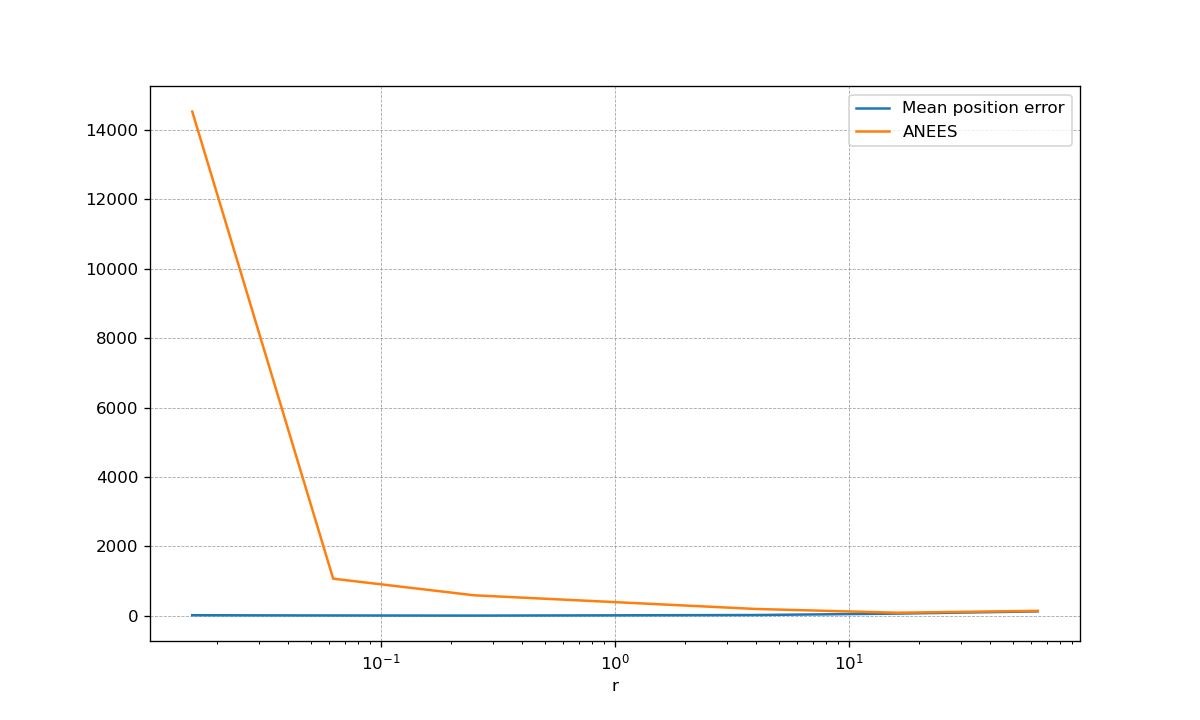
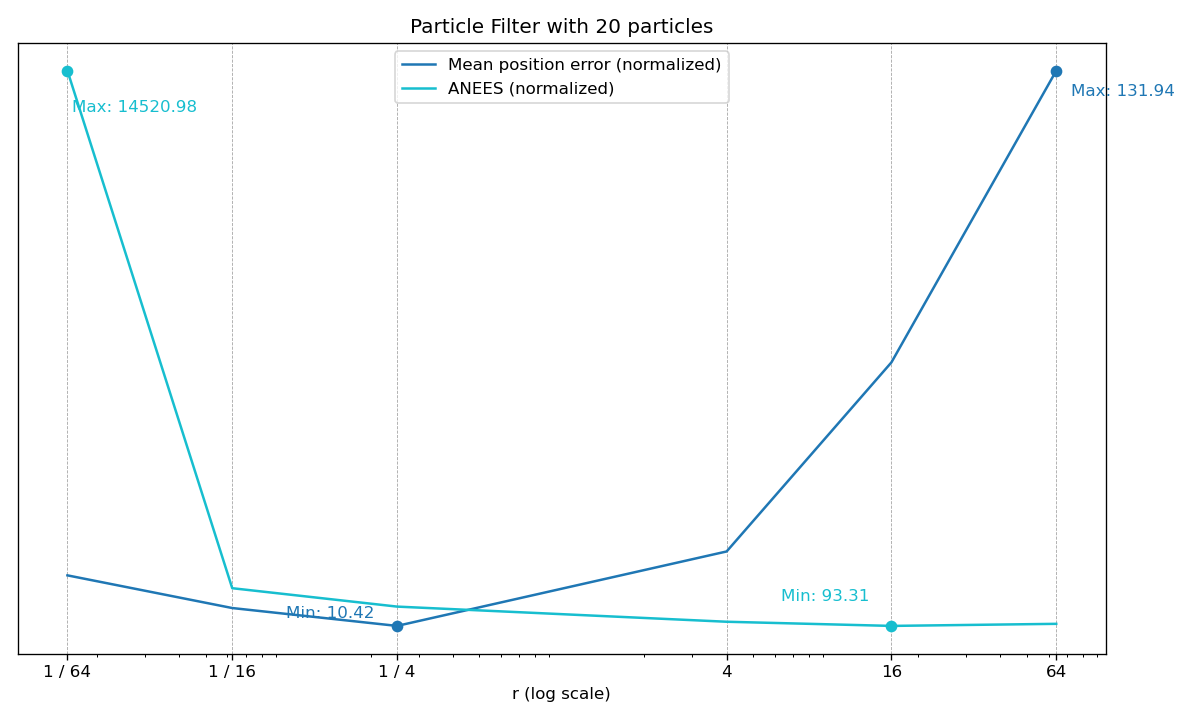
preciosos gráficos normalizados

diff --git a/tp4/tests.py b/tp4/tests.py
@@ -2,7 +2,15 @@ import os
 import matplotlib.pyplot as plt
 import numpy as np
 
-r = [1/64, 1/16, 1/4, 4, 16, 64]
+
+R = [1/64, 1/16, 1/4, 4, 16, 64]
+
+
+COLORS = ["red", "blue", "green", "orange", "purple", "brown"]
+
+
+PARTICLES = [20, 50, 500]
+
 
 def test_ekf():
     print("Running EKF tests")
@@ -10,12 +18,13 @@ def test_ekf():
     with open("ekf.txt", "w") as f:
         f.write("")
 
-    for i in r:
+    for i in R:
         print(f"Running 10 runs for r = {i}")
         for _ in range(10):
             command = f"python localization.py ekf --data-factor {i} --filter-factor {i} >> ekf.txt"
             print("$", command)
             os.system(f"python localization.py ekf --data-factor {i} --filter-factor {i} >> ekf.txt")
+
 
 def test_pf():
     print("Running PF tests")
@@ -23,28 +32,28 @@ def test_pf():
     with open("pf.txt", "w") as f:
         f.write("")
 
-    for i in r:
+    for i in R:
         print(f"Running 10 runs for r = {i}")
         for _ in range(10):
             command = f"python localization.py pf --data-factor {i} --filter-factor {i} >> pf.txt"
             print("$", command)
             os.system(f"python localization.py pf --data-factor {i} --filter-factor {i} >> pf.txt")
 
+
 def test_pf_extensive():
     print("Running PF extensive tests")
 
-    particles = [20, 50, 500]
-
-    for n in particles:
+    for n in PARTICLES:
         with open(f"pfext{n}.txt", "w") as f:
             f.write("")
 
-        for i in r:
+        for i in R:
             print(f"Running 10 runs for r = {i} and n = {n}")
             for _ in range(10):
                 command = f"python localization.py pf --data-factor {i} --filter-factor {i} --num-particles {n} >> pfext{n}.txt"
                 print("$", command)
                 os.system(f"python localization.py pf --data-factor {i} --filter-factor {i} --num-particles {n} >> pfext{n}.txt")
+
 
 """
 Example output of one run:
@@ -66,6 +75,7 @@ class Run:
     def __repr__(self):
         return f"Run(data_factor={self.data_factor}, filter_factor={self.filter_factor}, mean_error={self.mean_error}, mean_mahalanobis={self.mean_mahalanobis}, anees={self.anees})"
 
+
 def parse_run(lines: list[str]):
 
     if (len(lines) < 6):
@@ -78,14 +88,46 @@ def parse_run(lines: list[str]):
     anees = float(lines[5].split(":")[-1].strip())
     return Run(data_factor, filter_factor, mean_error, mean_mahalanobis, anees), lines[6:]
 
-"""
-Graficar el error de posición medio a medida que los factores α, β varían sobre r y discuta los
-resultados.
 
-Graficar el error de posición medio y ANEES a medida que los factores α, β del filtro varían sobre
-r mientras los datos son generados con los valores por defecto.
-"""
-def plot(runs: list[Run], prefix: str = "", log=False):
+def style_normalized(x, ys, names):
+    normalized = [(y - np.min(y)) / (np.max(y) - np.min(y)) for y in ys]
+
+    for i, (y, n, p, c) in enumerate(zip(ys, normalized, names, COLORS)):
+        plt.plot(x, n, label=p, color=c)
+
+        plt.xticks(x, map(lambda x: f"1 / {int(1 / x)}" if 0 < x < 1 else "0" if x == 0 else str(int(x)), x))
+
+        min_index = np.argmin(n)
+        max_index = np.argmax(n)
+
+        plt.scatter(x[min_index], 0, color=c, zorder=5)  # Min point
+        plt.scatter(x[max_index], 1, color=c, zorder=5)  # Max point
+
+        plt.annotate(
+            f"Min: {y[min_index]:.2f}",
+            (x[min_index], 0),
+            textcoords="offset points",
+            xytext=(-40, 5 + i * 10),
+            ha='center',
+            color=c
+        )
+
+        plt.annotate(
+            f"Max: {y[max_index]:.2f}",
+            (x[max_index], 1),
+            textcoords="offset points",
+            xytext=(40, -15 - i * 10),
+            ha='center',
+            color=c
+        )
+
+    plt.gca().axes.yaxis.set_visible(False)
+    plt.grid(color='gray', linestyle='--', linewidth=0.5, alpha=0.7)
+    plt.tight_layout()
+    plt.legend()
+
+
+def plot_data_from_runs(runs: list[Run]) -> tuple[list[float], list[float], list[float]]:
     x = sorted(set(run.data_factor for run in runs))
     y = []; y2 = []
     for r in x:
@@ -101,83 +143,37 @@ def plot(runs: list[Run], prefix: str = "", log=False):
 
         y2.append(avg_anees)
 
+    return x, y, y2
+
+
+"""
+Graficar el error de posición medio a medida que los factores α, β varían sobre r y discuta los
+resultados.
+
+Graficar el error de posición medio y ANEES a medida que los factores α, β del filtro varían sobre
+r mientras los datos son generados con los valores por defecto.
+"""
+def plot(runs: list[Run], prefix: str = "", log=False, title=None):
+    x, y, y2 = plot_data_from_runs(runs)
+
     plt.figure(figsize=(10, 6), dpi=120)
-    plt.grid(color='gray', linestyle='--', linewidth=0.5, alpha=0.7)
-
-    if log:
-        plt.xscale("log")
-    else:
-        plt.xscale("linear")
-
-    normalized = [i / (max(y) - min(y)) for i in y]
-
-    fig, ax1 = plt.subplots()
-    ax1.plot(x, y)
-    ax2 = ax1.twinx()
-    ax2.plot(x, normalized, color="red")
-
-    plt.plot(x, y)
-    plt.xlabel("r")
-    plt.ylabel("Mean position error")
+    plt.title(title)
+    plt.xscale("log" if log else "linear")
+    plt.xlabel("r" + (" (log scale)" if log else ""))
+    style_normalized(x, [y], ["Mean position error (normalized)"])
     plt.savefig(prefix + "mean_position_error.png")
     plt.show()
 
     plt.figure(figsize=(10, 6), dpi=120)
-    plt.grid(color='gray', linestyle='--', linewidth=0.5, alpha=0.7)
-
-    if log:
-        plt.xscale("log")
-    else:
-        plt.xscale("linear")
-
-    plt.plot(x, y, label="Mean position error")
-    plt.plot(x, y2, label="ANEES")
-    plt.xlabel("r")
-    plt.legend()
+    plt.title(title)
+    plt.xscale("log" if log else "linear")
+    plt.xlabel("r" + (" (log scale)" if log else ""))
+    style_normalized(x, [y, y2], ["Mean position error (normalized)", "ANEES (normalized)"])
     plt.savefig(prefix + "mean_position_error_and_anees.png")
     plt.show()
 
-def plot_normalized(x, ys):
-    normalized = [(y - np.min(y)) / (np.max(y) - np.min(y)) for y in ys]
 
-    colors = plt.cm.tab10(np.linspace(0, 1, len(ys)))
-
-    plt.figure(figsize=(10, 6))
-    for i, n in enumerate(normalized):
-        color = colors[i]
-
-        plt.plot(x, n, label=f'Line {i + 1}', color=color)
-
-        min_index = np.argmin(n)
-        max_index = np.argmax(n)
-
-        plt.scatter(x[min_index], 0, color=color, zorder=5)  # Min point
-        plt.scatter(x[max_index], 1, color=color, zorder=5)  # Max point
-
-        plt.annotate(
-            f"Min: {ys[i][min_index]:.2f}",
-            (x[min_index], 0),
-            textcoords="offset points",
-            xytext=(-40, 5),
-            ha='center',
-            color=color
-        )
-
-        plt.annotate(
-            f"Max: {ys[i][max_index]:.2f}",
-            (x[max_index], 1),
-            textcoords="offset points",
-            xytext=(40, -15),
-            ha='center',
-            color=color
-        )
-
-    plt.gca().axes.yaxis.set_visible(False)
-    plt.grid(color='gray', linestyle='--', alpha=0.7)
-    plt.tight_layout()
-    plt.show()
-
-def plot_runs_from_file(filename: str, log=False):
+def read_run(filename: str):
     with open(filename, "r") as f:
         lines = f.readlines()
 
@@ -187,7 +183,8 @@ def plot_runs_from_file(filename: str, log=False):
             if run:
                 runs.append(run)
 
-        plot(runs, filename.split(".")[0] + "_", log)
+        return runs
+
 
 if __name__ == "__main__":
     # used in the first run because it takes a long time
@@ -195,8 +192,23 @@ if __name__ == "__main__":
     # test_pf()
     # test_pf_extensive()
 
-    plot_runs_from_file("ekf.txt", log=True)
-    plot_runs_from_file("pf.txt", log=True)
+    plot(read_run("ekf.txt"), "ekf_", log=True, title="Extended Kalman Filter")
+    plot(read_run("pf.txt"), "pf_", log=True, title="Particle Filter")
 
-    for n in [20, 50, 500]:
-        plot_runs_from_file(f"pfext{n}.txt", log=True)
+    plt.figure(figsize=(10, 6), dpi=120)
+    plt.title("Particle Filter with different number of particles")
+    plt.xscale("log")
+    plt.xlabel("r (log scale)")
+
+    ys = []
+    names = []
+    for n in PARTICLES:
+        xaxis, y, y2 = plot_data_from_runs(read_run(f"pfext{n}.txt"))
+        ys.append(y)
+        ys.append(y2)
+        names.append(f"Mean position error (normalized) for {n} particles")
+        names.append(f"ANEES (normalized) for {n} particles")
+
+    style_normalized(xaxis, ys, names)
+    plt.savefig("pf_mean_position_error_and_anees_many_particles.png")
+    plt.show()
